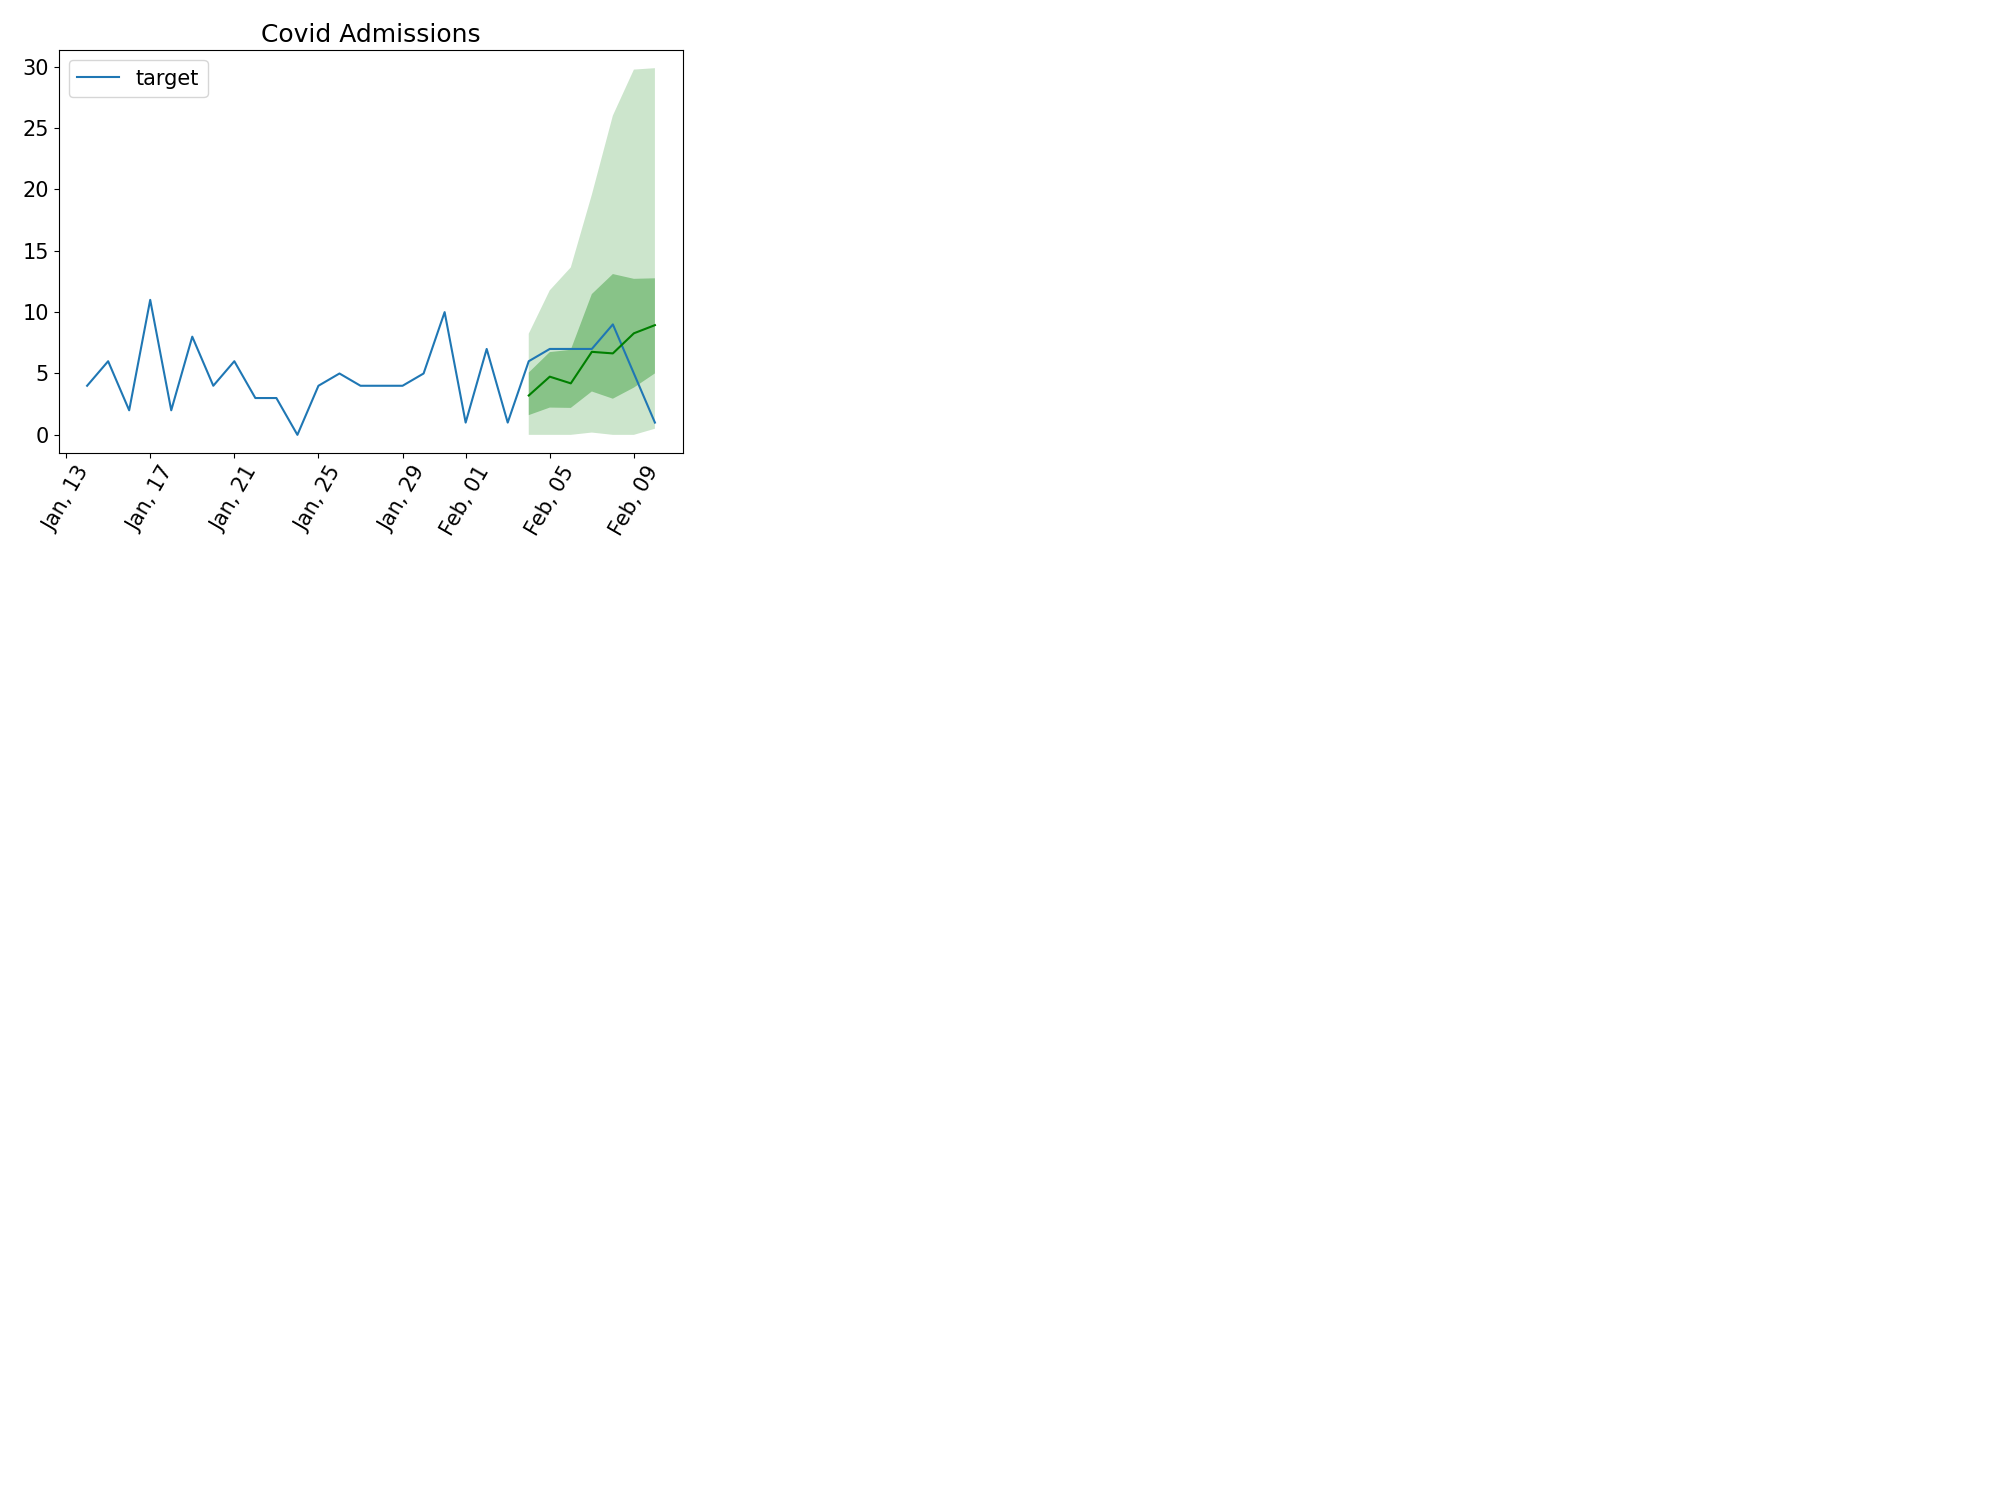
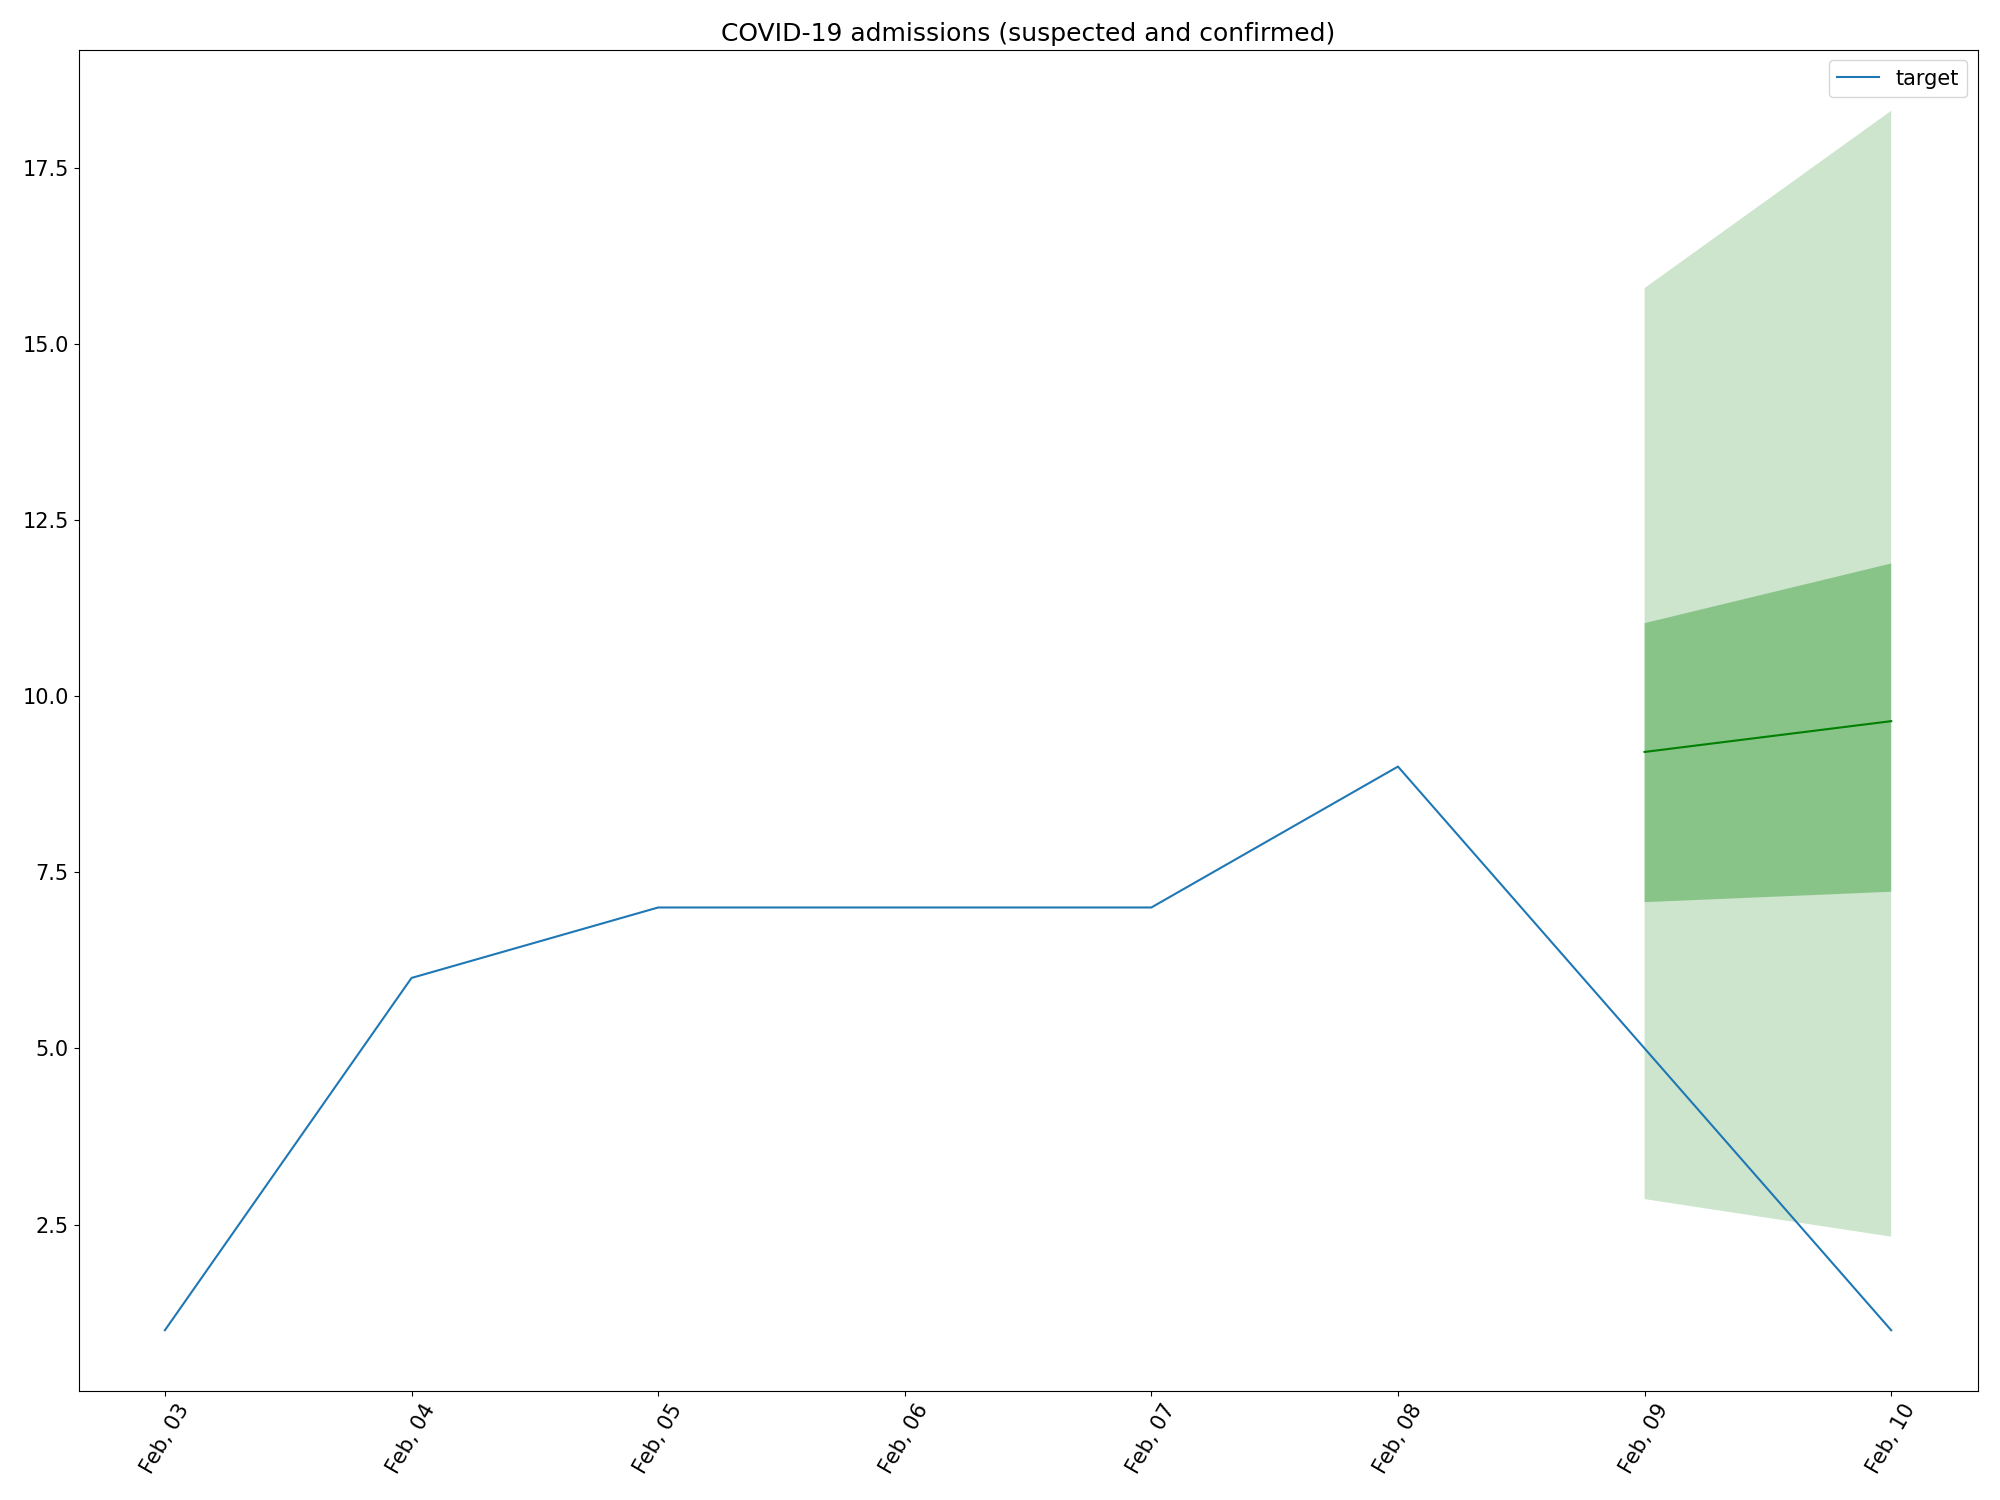
lagllama predictions.

diff --git a/src/LagLlama.py b/src/LagLlama.py
@@ -8,6 +8,7 @@ import logging
 from matplotlib import pyplot as plt
 import matplotlib.dates as mdates
 
+import numpy as np
 import torch
 from gluonts.evaluation import make_evaluation_predictions, Evaluator  # type: ignore
 from gluonts.dataset.repository.datasets import get_dataset  # type: ignore
@@ -15,6 +16,8 @@ from gluonts.dataset.repository.datasets import get_dataset  # type: ignore
 from gluonts.dataset.pandas import PandasDataset  # type: ignore
 import pandas as pd
 from tqdm import tqdm
+
+from json import dumps
 
 from common.config import DATA_DIR, FIGURE_DIR, read_data, prepare_data, MODEL_DIR
 
@@ -24,7 +27,7 @@ sys.path.append("contrib/lag-llama")
 from lag_llama.gluon.estimator import LagLlamaEstimator
 
 
-def get_lag_llama_predictions(dataset, prediction_length, context_length=32, num_samples=20, device="cuda", batch_size=64, nonnegative_pred_samples=True):
+def get_lag_llama_predictions(dataset, prediction_length, context_length=32, num_samples=20, device="cuda", batch_size=128, nonnegative_pred_samples=True, progress=False, num_parallel_samples=1000, rope_scaling=False):
     ckpt = torch.load("./contrib/hf_model/lag-llama.ckpt", map_location=device)
     estimator_args = ckpt["hyper_parameters"]["model_kwargs"]
 
@@ -47,10 +50,10 @@ def get_lag_llama_predictions(dataset, prediction_length, context_length=32, num
         rope_scaling={
             "type": "linear",
             "factor": max(1.0, (context_length + prediction_length) / estimator_args["context_length"]),
-        },
+        } if rope_scaling else None,
 
         batch_size=batch_size,
-        num_parallel_samples=num_samples,
+        num_parallel_samples=num_parallel_samples,
     )
 
     lightning_module = estimator.create_lightning_module()
@@ -62,15 +65,19 @@ def get_lag_llama_predictions(dataset, prediction_length, context_length=32, num
         predictor=predictor,
         num_samples=num_samples
     )
-    forecasts = list(tqdm(forecast_it, total=len(dataset), desc="Forecasting batches"))
-    tss = list(tqdm(ts_it, total=len(dataset), desc="Ground truth"))
+    if progress:
+        forecasts = list(tqdm(forecast_it, total=len(dataset), desc="Forecasting batches"))
+        tss = list(tqdm(ts_it, total=len(dataset), desc="Ground truth"))
+    else:
+        forecasts = list(forecast_it)
+        tss = list(ts_it)
 
     return forecasts, tss
 
 
 if __name__ == "__main__":
     logging.basicConfig(level=logging.INFO)
-    device = torch.device("cuda" if torch.cuda.is_available() else "cpu")
+    device = "cuda" if torch.cuda.is_available() else "cpu"
     logging.info(f'Using device: {device}')
     # Load the data
     logging.info('Loading data')
@@ -92,18 +99,34 @@ if __name__ == "__main__":
     data = data.rename(columns={target: 'target'})
     
     # Add a pseudo item_id column
-    data['item_id'] = "Covid Admissions"
+    # data['item_id'] = "Covid Admissions"
+
+    # add an index to item_id
+    # data['item_id'] = data['item_id'].astype('category')
 
     print(data.head())
     data['target'] = data['target'].astype('float32')
+    # data['day_of_week'] = data['day_of_week'].astype('float32')
+    # data['humidity'] = data['humidity'].astype('float32')
+    # data['temp'] = data['temp'].astype('float32')
+    # data['windspeed'] = data['windspeed'].astype('float32')
+    # data['winddir'] = data['winddir'].astype('float32')
+    print(data.head())
 
     # Create a PandasDataset from the data
     logging.info('Creating dataset')
-    dataset = PandasDataset.from_long_dataframe(data, target="target", item_id="item_id")
+    dataset = PandasDataset(
+        data[["target"]],
+        target="target",
+        assume_sorted=True,
+        # unchecked=True,
+        freq="D",
+        # static_features=data.drop(columns=["target"]),
+    )
 
-    prediction_length = 7
-    context_length = 8
-    num_samples = 100
+    prediction_length = 2
+    context_length = 14
+    num_samples = 500
 
     # Get the forecasts
     logging.info('Getting forecasts')
@@ -114,17 +137,81 @@ if __name__ == "__main__":
     plt.figure(figsize=(20, 15))
     date_formater = mdates.DateFormatter('%b, %d')
     plt.rcParams.update({'font.size': 15})
-    for idx, (forecast, ts) in islice(enumerate(zip(forecasts, tss)), 9):
-        ax = plt.subplot(3, 3, idx + 1)
+    for idx, (forecast, ts) in enumerate(zip(forecasts, tss)):
+        ax = plt.subplot(1, 1, idx + 1)
         
         plt.plot(ts[-4 * prediction_length:].to_timestamp(), label="target", )
         forecast.plot( color='g')
         plt.xticks(rotation=60)
         ax.xaxis.set_major_formatter(date_formater)
-        ax.set_title(forecast.item_id)
+        ax.set_title(target)
 
     plt.gcf().tight_layout()
     plt.legend()
 
     logging.info('Saving figure')
     plt.savefig(FIGURE_DIR / "lag_llama_predictions.png")
+
+    logging.info('Done!')
+
+    # now try windowed predictions
+    logging.info('Generating windowed forecasts')
+    num_rows = len(data)
+    window_size = context_length + prediction_length
+    step_size = prediction_length
+    forecasts = []
+    for i in tqdm(range(0, num_rows - window_size, step_size)):
+        dataset_window = PandasDataset(
+            data[i:i + window_size],
+            target="target",
+            assume_sorted=True,
+            freq="D",
+        )
+        forecast, _ = get_lag_llama_predictions(dataset_window, prediction_length, context_length=context_length, num_samples=num_samples, device=device)
+        forecasts.append(forecast)
+    
+    # make a dataframe with the forecasts
+    logging.info('Creating dataframe with windowed forecasts')
+    windowed_forecasts = data.copy()
+    windowed_forecasts['forecast_mean'] = np.array([np.nan] * windowed_forecasts.shape[0], dtype='float32')
+    windowed_forecasts['forecast_lower'] = np.array([np.nan] * windowed_forecasts.shape[0], dtype='float32')
+    windowed_forecasts['forecast_upper'] = np.array([np.nan] * windowed_forecasts.shape[0], dtype='float32')
+    windowed_forecasts['samples'] = [""] * windowed_forecasts.shape[0]
+    for i, forecast in enumerate(forecasts):
+        indices = forecast[0].index.to_timestamp()
+        windowed_forecasts.loc[indices, 'forecast_mean'] = forecast[0].mean.tolist()
+        windowed_forecasts.loc[indices, 'forecast_lower'] = np.quantile(forecast[0].samples, 0.05, axis=0).tolist()
+        windowed_forecasts.loc[indices, 'forecast_upper'] = np.quantile(forecast[0].samples, 0.95, axis=0).tolist()
+        for i in range(prediction_length):
+            windowed_forecasts.loc[indices[i], 'samples']= dumps(forecast[0].samples[:, i].tolist())
+    
+    # Plot the forecasts
+    logging.info('Plotting windowed forecasts')
+    plt.figure(figsize=(20, 15))
+    date_formater = mdates.DateFormatter('%b, %d')
+    plt.rcParams.update({'font.size': 15})
+    ax = plt.subplot(1, 1, 1)
+    plt.plot(windowed_forecasts['target'], label="target", )
+    plt.plot(windowed_forecasts['forecast_mean'], label="forecast", color='g')
+    plt.fill_between(
+        windowed_forecasts.index,
+        windowed_forecasts['forecast_lower'],
+        windowed_forecasts['forecast_upper'],
+        where=(windowed_forecasts['forecast_mean'] != None).to_list(),
+        color='g',
+        alpha=0.3)
+    plt.xticks(rotation=60)
+    ax.xaxis.set_major_formatter(date_formater)
+    ax.set_title(target)
+
+    plt.gcf().tight_layout()
+    plt.legend()
+
+    logging.info('Saving figure')
+    plt.savefig(FIGURE_DIR / "lag_llama_windowed_predictions.png")
+
+    logging.info('Done!')
+
+    # Save the forecasts
+    windowed_forecasts.to_csv(DATA_DIR / 'lag_llama_windowed_forecasts.csv')
+    logging.info('Done!')
